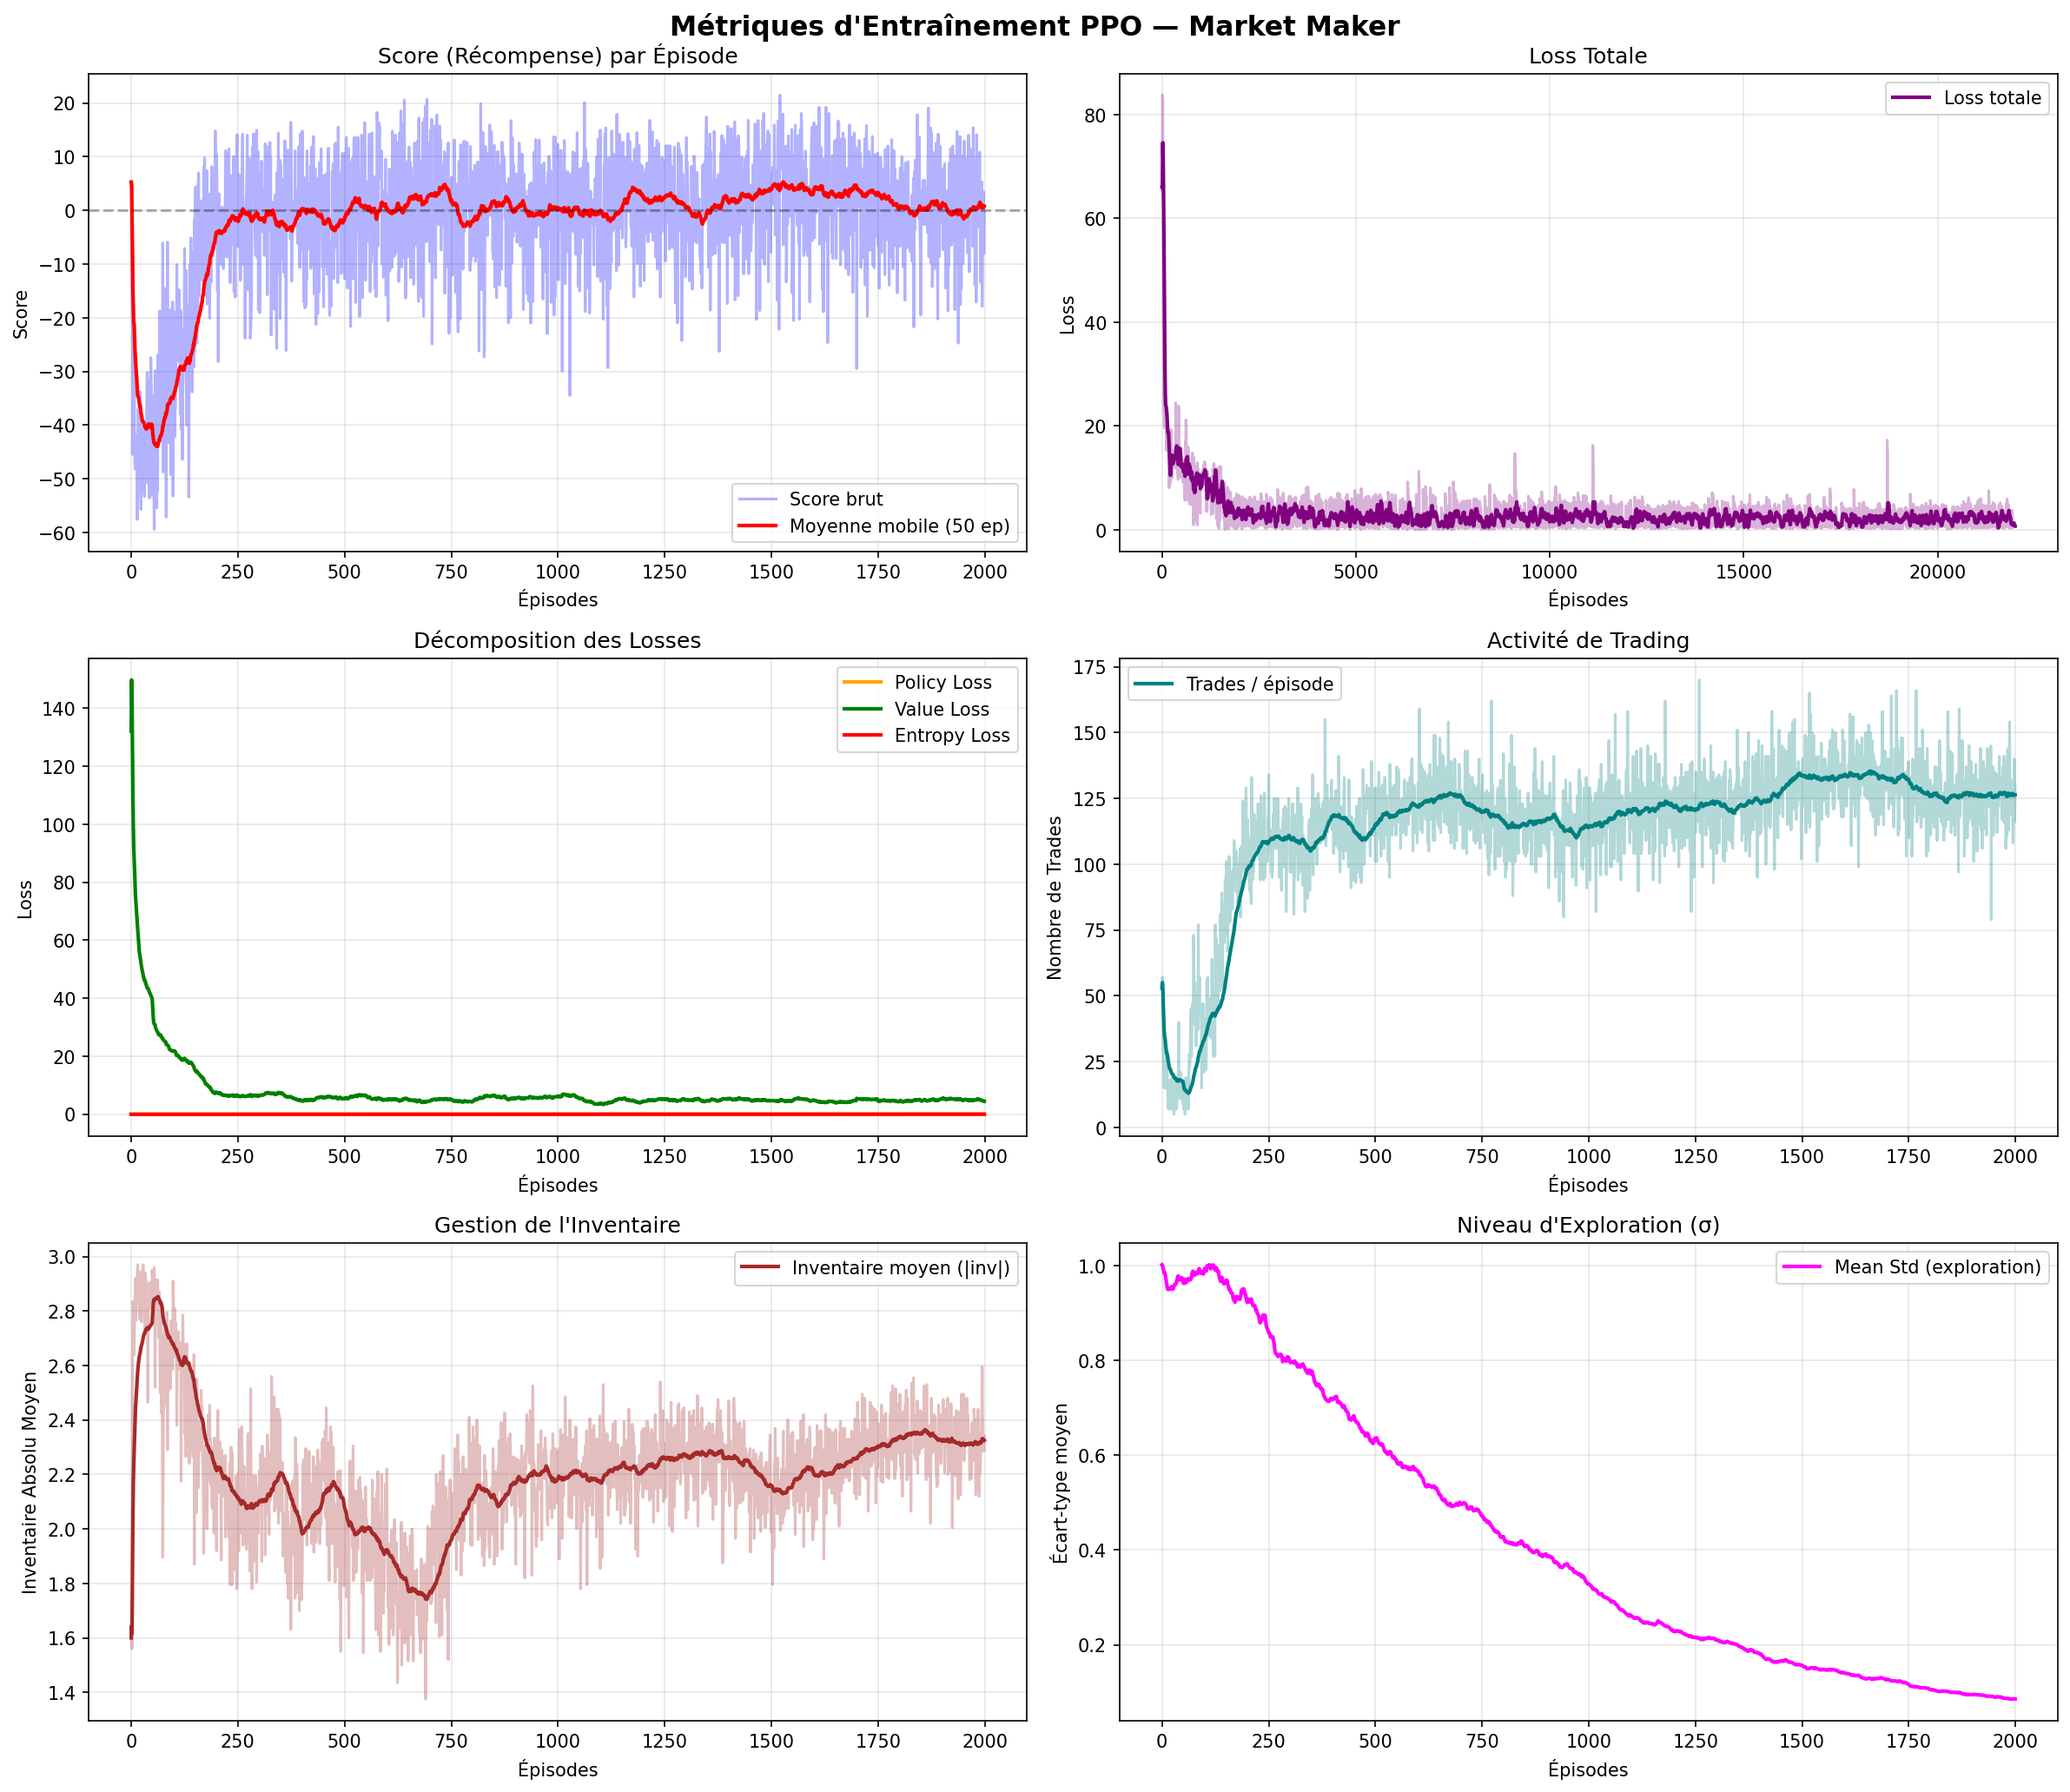
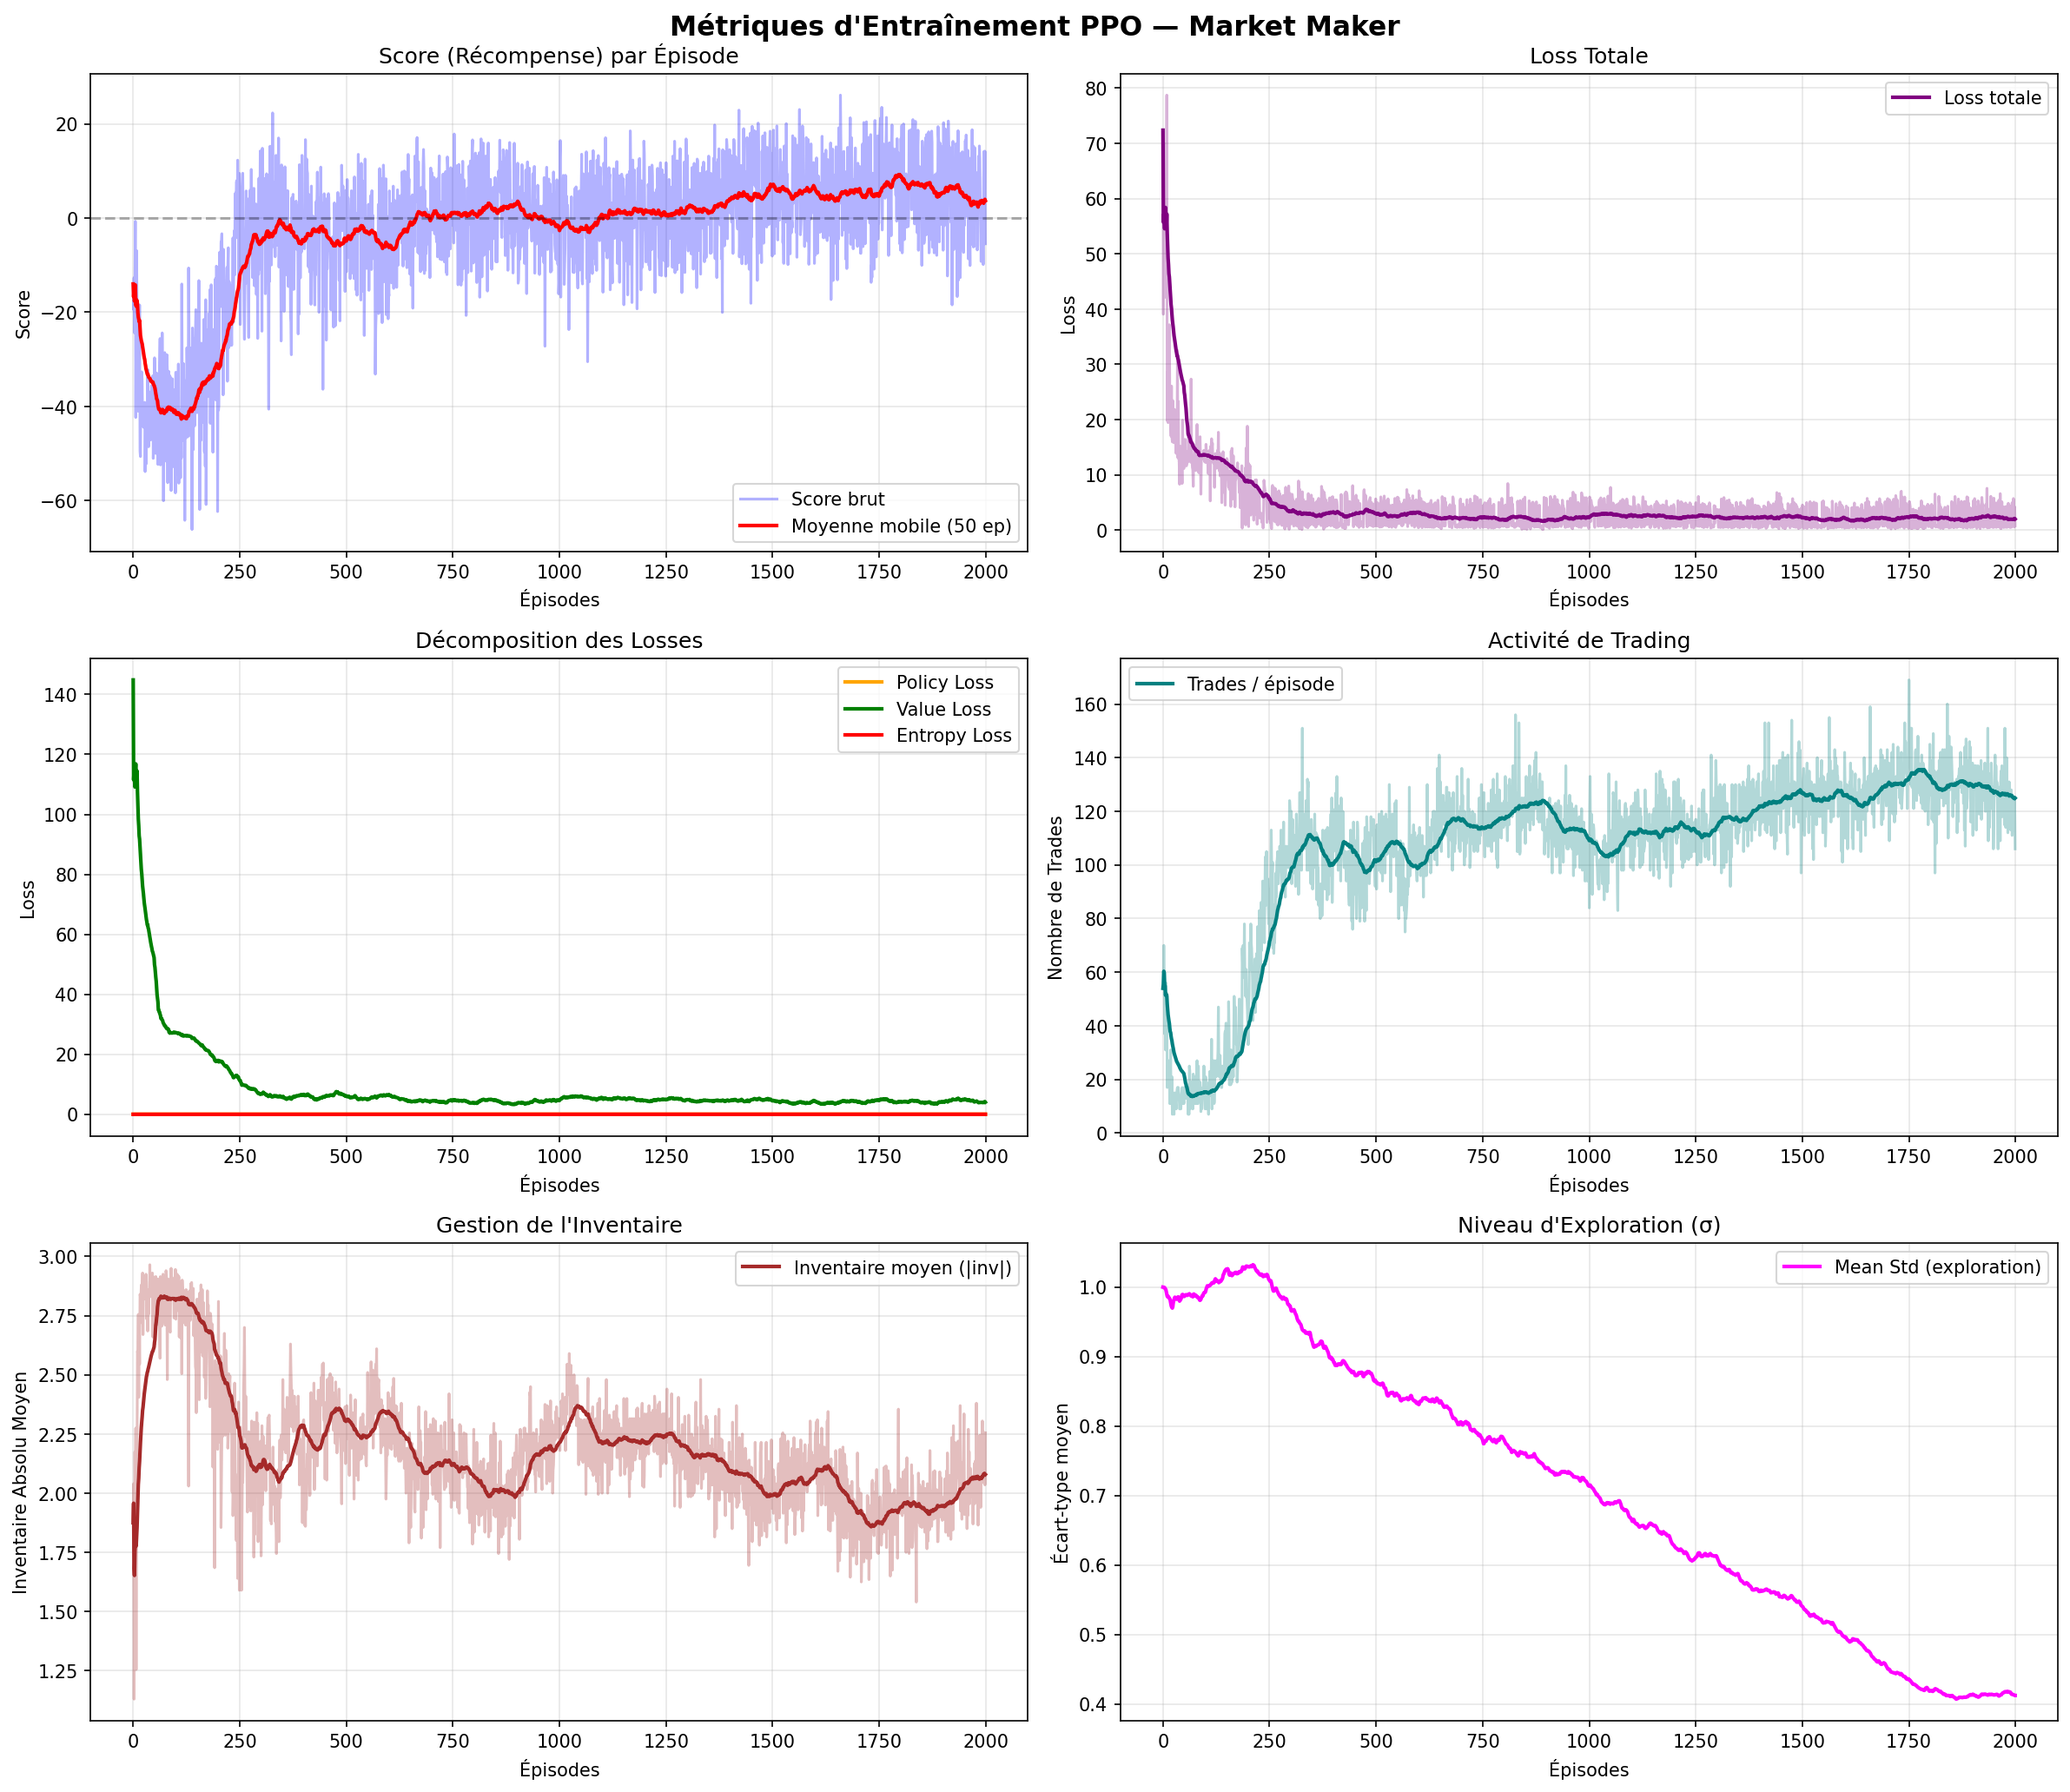
le modele ajusté

diff --git a/agents/ppo/evaluate_ppo.py b/agents/ppo/evaluate_ppo.py
@@ -1,0 +1,121 @@
+"""
+Évaluation du modèle PPO sur des données historiques.
+Usage: python -m agents.ppo.evaluate_ppo
+"""
+
+import numpy as np
+import tensorflow as tf
+import pandas as pd
+import matplotlib.pyplot as plt
+import os
+
+try:
+    from .train_ppo import ContinuousBinanceEnv
+except ImportError:
+    from train_ppo import ContinuousBinanceEnv
+
+PROJECT_ROOT = os.path.dirname(os.path.dirname(os.path.dirname(os.path.abspath(__file__))))
+
+
+def evaluate(csv_path, policy_path, num_episodes=50, volume_threshold=1000):
+    env = ContinuousBinanceEnv(csv_path, volume_threshold=volume_threshold)
+
+    print(f"Chargement du modèle : {policy_path}")
+    policy_net = tf.keras.models.load_model(policy_path, compile=False)
+
+    episode_pnls = []
+    episode_trades = []
+    episode_avg_inventories = []
+    all_cash_curves = []
+
+    for ep in range(num_episodes):
+        state, _ = env.reset()
+        done = False
+        cash_curve = [0.0]
+
+        while not done:
+            obs = np.expand_dims(state, axis=0)
+            action = policy_net(obs, training=False).numpy()[0]
+            action = np.clip(action, env.action_space.low, env.action_space.high)
+            state, reward, done, _, _ = env.step(action)
+            cash_curve.append(env.cash)
+
+        final_price = env.closes[env.current_step]
+        pnl = env.cash + env.inventory * final_price
+        avg_inv = np.mean(np.abs(env.episode_inventories)) if env.episode_inventories else 0.0
+
+        episode_pnls.append(pnl)
+        episode_trades.append(env.episode_trades)
+        episode_avg_inventories.append(avg_inv)
+        all_cash_curves.append(cash_curve)
+
+        print(f"Episode {ep+1}/{num_episodes} | "
+              f"PnL: {pnl:.4f} | "
+              f"Trades: {env.episode_trades} | "
+              f"Inv moy: {avg_inv:.2f} | "
+              f"Inv final: {env.inventory}")
+
+    # Résumé
+    print("\n" + "=" * 60)
+    print("RÉSULTATS DE L'ÉVALUATION")
+    print("=" * 60)
+    print(f"  Episodes:        {num_episodes}")
+    print(f"  PnL moyen:       {np.mean(episode_pnls):.4f}")
+    print(f"  PnL médian:      {np.median(episode_pnls):.4f}")
+    print(f"  PnL std:         {np.std(episode_pnls):.4f}")
+    print(f"  PnL min:         {np.min(episode_pnls):.4f}")
+    print(f"  PnL max:         {np.max(episode_pnls):.4f}")
+    print(f"  Win rate:        {100 * np.mean(np.array(episode_pnls) > 0):.1f}%")
+    print(f"  Trades moyen:    {np.mean(episode_trades):.1f}")
+    print(f"  Inv moyen:       {np.mean(episode_avg_inventories):.2f}")
+    print("=" * 60)
+
+    # Graphiques
+    fig, axes = plt.subplots(2, 2, figsize=(14, 10))
+    fig.suptitle("Évaluation PPO — Market Maker", fontsize=14, fontweight="bold")
+
+    ax = axes[0, 0]
+    ax.hist(episode_pnls, bins=20, color="steelblue", edgecolor="black", alpha=0.8)
+    ax.axvline(x=0, color="red", linestyle="--", alpha=0.7)
+    ax.axvline(x=np.mean(episode_pnls), color="green", linestyle="-", linewidth=2, label=f"Moyenne: {np.mean(episode_pnls):.4f}")
+    ax.set_title("Distribution des PnL")
+    ax.set_xlabel("PnL")
+    ax.set_ylabel("Fréquence")
+    ax.legend()
+    ax.grid(True, alpha=0.3)
+
+    ax = axes[0, 1]
+    ax.plot(episode_pnls, marker="o", markersize=3, color="steelblue", alpha=0.7)
+    ax.axhline(y=0, color="red", linestyle="--", alpha=0.5)
+    ax.set_title("PnL par épisode")
+    ax.set_xlabel("Episode")
+    ax.set_ylabel("PnL")
+    ax.grid(True, alpha=0.3)
+
+    ax = axes[1, 0]
+    ax.plot(episode_trades, marker="o", markersize=3, color="teal", alpha=0.7)
+    ax.set_title("Trades par épisode")
+    ax.set_xlabel("Episode")
+    ax.set_ylabel("Nombre de trades")
+    ax.grid(True, alpha=0.3)
+
+    ax = axes[1, 1]
+    for curve in all_cash_curves[:10]:
+        ax.plot(curve, alpha=0.4)
+    ax.axhline(y=0, color="red", linestyle="--", alpha=0.5)
+    ax.set_title("Courbes de cash (10 premiers épisodes)")
+    ax.set_xlabel("Steps")
+    ax.set_ylabel("Cash")
+    ax.grid(True, alpha=0.3)
+
+    plt.tight_layout()
+    output_path = os.path.join(os.path.dirname(os.path.abspath(__file__)), "evaluation_ppo.png")
+    plt.savefig(output_path, dpi=150, bbox_inches="tight")
+    print(f"\nGraphiques sauvegardés : {output_path}")
+    plt.show()
+
+
+if __name__ == "__main__":
+    csv_path = os.path.join(PROJECT_ROOT, "data", "SOLUSDT-aggTrades-2026-03.csv")
+    policy_path = os.path.join(PROJECT_ROOT, "agents", "ppo", "models_checkpoints", "ppo_policy_FINAL.keras")
+    evaluate(csv_path, policy_path, num_episodes=50, volume_threshold=5)

diff --git a/agents/ppo/train_ppo.py b/agents/ppo/train_ppo.py
@@ -328,46 +328,10 @@ class PPOAgent:
                 epoch_value_losses.append(float(value_loss))                                                                              
                 epoch_entropy_losses.append(float(entropy_loss))
 
-        self.policy_losses.append(np.mean(epoch_policy_losses))                                                                           
+        self.policy_losses.append(np.mean(epoch_policy_losses))
         self.value_losses.append(np.mean(epoch_value_losses))
-        self.entropy_losses.append(np.mean(epoch_entropy_losses))                                                                         
+        self.entropy_losses.append(np.mean(epoch_entropy_losses))
         self.losses.append(np.mean(epoch_policy_losses) + 0.5 * np.mean(epoch_value_losses) + np.mean(epoch_entropy_losses))
-
-        n = len(states)
-        for _ in range(self.epochs):
-            indices = np.random.permutation(n)
-            for start in range(0, n, self.batch_size):
-                idx = indices[start:start + self.batch_size]
-                
-                b_states = tf.gather(states, idx)
-                b_actions = tf.gather(actions, idx)
-                b_old_log_probs = tf.gather(old_log_probs, idx)
-                b_advantages = tf.gather(advantages, idx)
-                b_returns = tf.gather(returns, idx)
-
-                with tf.GradientTape() as tape:
-                    new_mus = self.policy_network(b_states, training=True)
-                    new_log_probs = self._log_prob(new_mus, b_actions, self.log_std)
-                    
-                    ratio = tf.exp(new_log_probs - b_old_log_probs)
-                    clipped = tf.clip_by_value(ratio, 1 - self.clip_range, 1 + self.clip_range)
-                    policy_loss = -tf.reduce_mean(tf.minimum(ratio * b_advantages, clipped * b_advantages))
-                    
-                    # Clipping pour éviter l'explosion de l'incertitude
-                    clipped_log_std = tf.clip_by_value(self.log_std, -10.0, 0.0)
-                    entropy = 0.5 * tf.reduce_sum(1.0 + tf.math.log(2 * np.pi * tf.exp(clipped_log_std * 2)))
-                    entropy_loss = -self.entropy_coeff * tf.reduce_mean(entropy)
-                    
-                    value_preds = tf.squeeze(self.value_network(b_states, training=True))
-                    value_loss = tf.reduce_mean(tf.square(b_returns - value_preds))
-                    
-                    loss = policy_loss + 0.5 * value_loss + entropy_loss
-
-                all_vars = self.policy_network.trainable_variables + self.value_network.trainable_variables + [self.log_std]
-                grads = tape.gradient(loss, all_vars)
-                grads = [tf.clip_by_norm(g, 0.5) if g is not None else g for g in grads]
-                self.optimizer.apply_gradients(zip(grads, all_vars))
-                self.losses.append(loss.numpy())
 
     def save(self, policy_path, value_path):
         self.policy_network.save(policy_path)

diff --git a/agents/strategies/PPO_agent.py b/agents/strategies/PPO_agent.py
@@ -37,16 +37,16 @@ class PPOStrategy(BaseStrategy):
         self.policy_network = None
 
         if not _TF_AVAILABLE:
-            print("⚠  PPO: TensorFlow not installed. Running in HOLD mode.")
+            print("PPO: TensorFlow not installed. Running in HOLD mode.")
             return
 
         print(f"Loading PPO Policy Model from {policy_model_path}...")
         try:
             self.policy_network = tf.keras.models.load_model(policy_model_path, compile=False)
             self.model_loaded = True
-            print("✅ PPO model loaded successfully.")
+            print("PPO model loaded successfully.")
         except Exception as e:
-            print(f"⚠  PPO: Failed to load model ({e}). Running in HOLD mode.")
+            print(f"PPO: Failed to load model ({e}). Running in HOLD mode.")
 
     def update_data(self, market_state: Dict) -> None:
         raw_mid = market_state.get("mid_price", 0)
